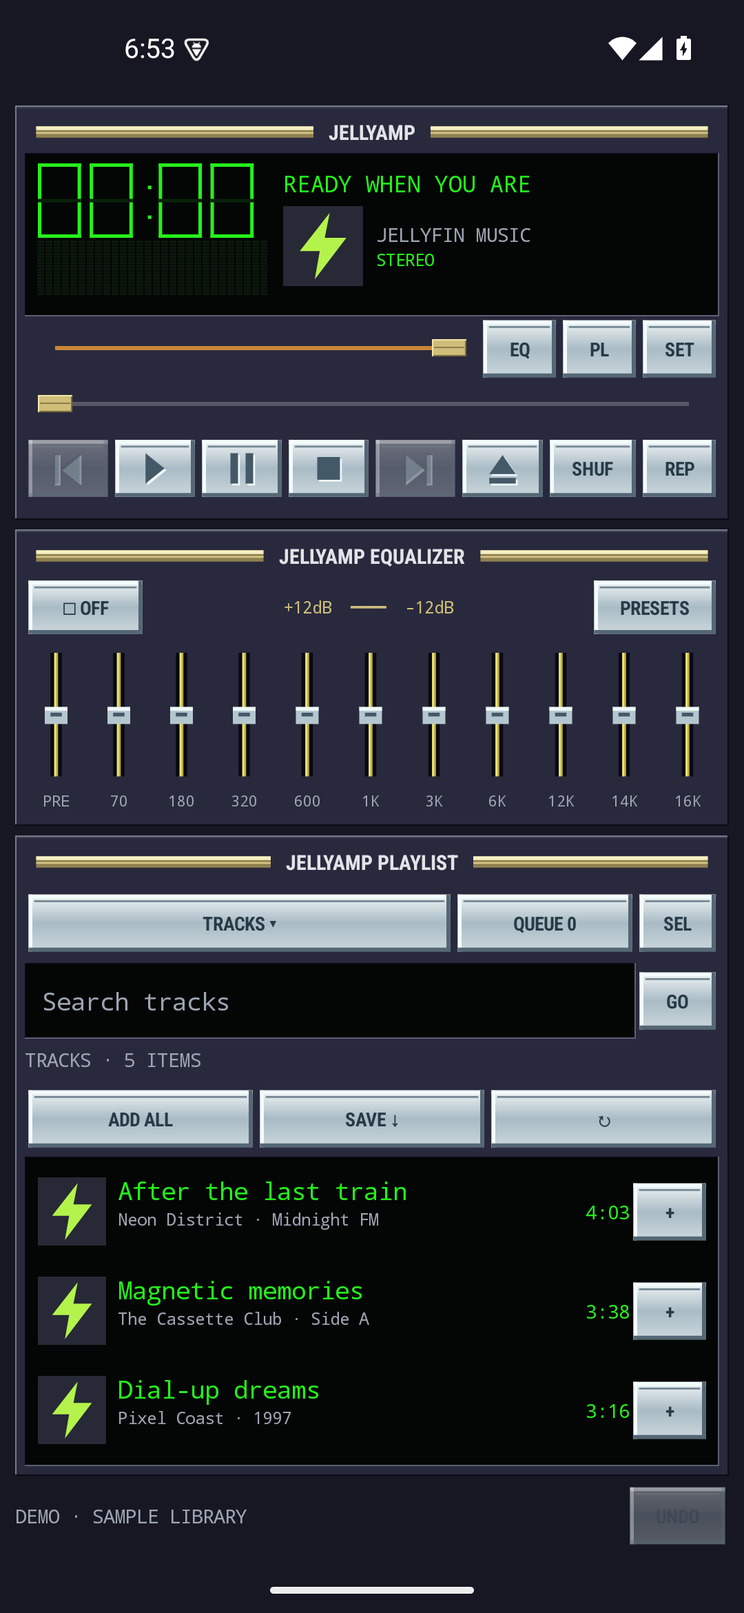
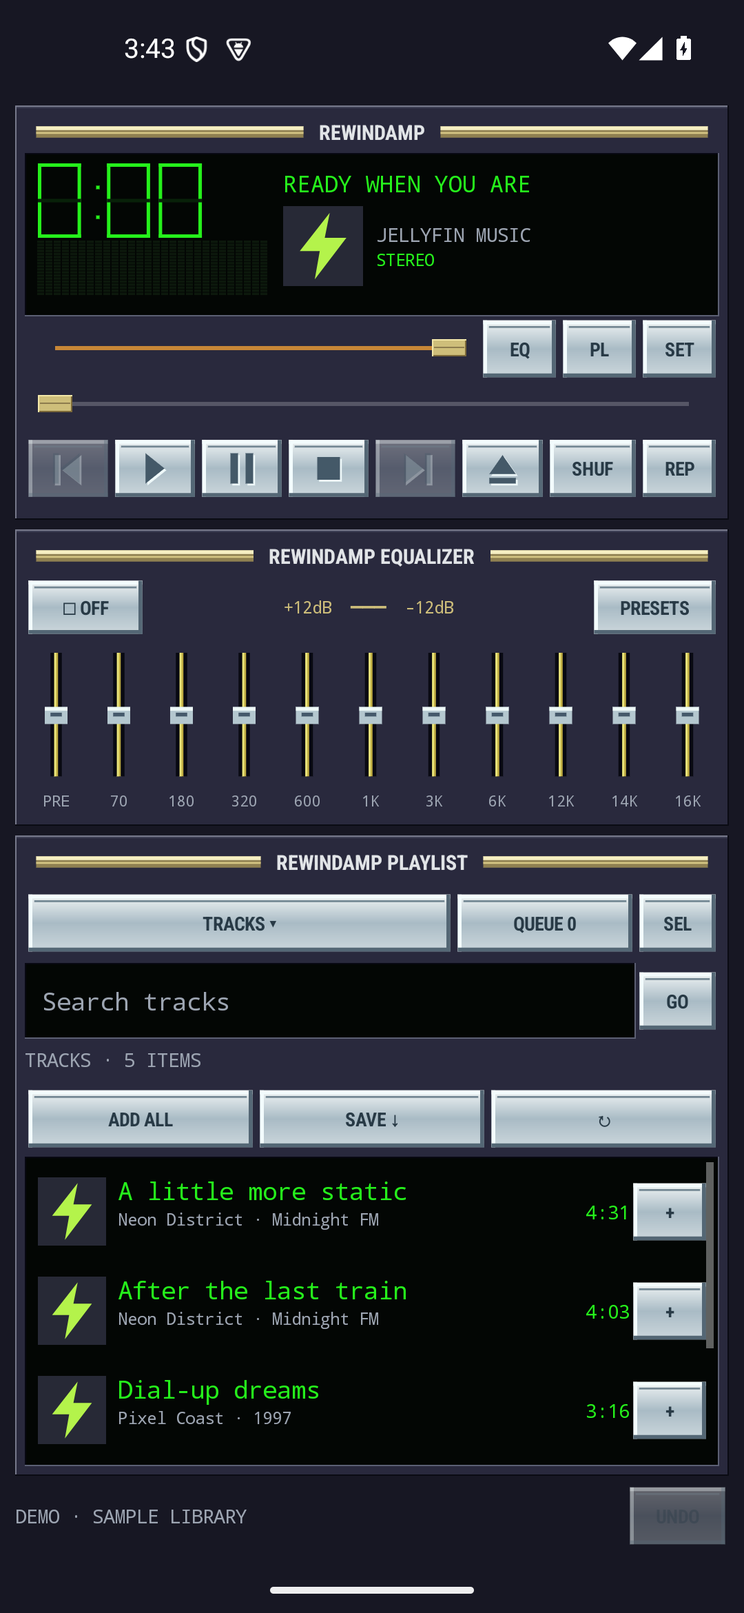
Rename Jellyamp to Rewindamp with a clean Android identity

diff --git a/app/src/main/java/dev/rewindamp/MainActivity.java b/app/src/main/java/dev/rewindamp/MainActivity.java
@@ -1,4 +1,4 @@
-package dev.jellyamp;
+package dev.rewindamp;
 
 import android.app.Activity;
 import android.app.AlertDialog;
@@ -115,8 +115,8 @@ public final class MainActivity extends Activity {
     }
     EditText field(String hint,boolean password){EditText e=new EditText(this);e.setTextColor(Retro.GREEN);e.setHintTextColor(Retro.MUTED);e.setTextSize(13);e.setSingleLine(true);e.setTypeface(Retro.MONO);e.setPadding(dp(9),dp(5),dp(9),dp(5));e.setBackground(Retro.bevel(Retro.LCD,true));e.setHint(hint);e.setInputType(password?InputType.TYPE_CLASS_TEXT|InputType.TYPE_TEXT_VARIATION_PASSWORD:InputType.TYPE_CLASS_TEXT|InputType.TYPE_TEXT_FLAG_NO_SUGGESTIONS);if(password)e.setImportantForAutofill(View.IMPORTANT_FOR_AUTOFILL_NO);return e;}
     void loginScreen(){
-        searchScreen=false;previousBrowse=null;previousBrowseRows=null;browseHistory.clear();base();ScrollView scroll=new ScrollView(this);LinearLayout box=column();scroll.addView(box);root.addView(scroll);rail(box,"JELLYAMP / CONNECT");gap(box,24);
-        box.addView(text("JELLYAMP",34,Retro.GREEN));box.addView(text("YOUR MUSIC. OLD SCHOOL.",12,Retro.MUTED));gap(box,24);
+        searchScreen=false;previousBrowse=null;previousBrowseRows=null;browseHistory.clear();base();ScrollView scroll=new ScrollView(this);LinearLayout box=column();scroll.addView(box);root.addView(scroll);rail(box,"REWINDAMP / CONNECT");gap(box,24);
+        box.addView(text("REWINDAMP",34,Retro.GREEN));box.addView(text("YOUR MUSIC. OLD SCHOOL.",12,Retro.MUTED));gap(box,24);
         LinearLayout form=column();panel(form);form.setPadding(dp(16),dp(12),dp(16),dp(12));box.addView(form);rail(form,"JELLYFIN SERVER");gap(form,12);
         EditText server=field("https://jellyfin.example.com",false);server.setInputType(InputType.TYPE_CLASS_TEXT|InputType.TYPE_TEXT_VARIATION_URI);form.addView(server,new LinearLayout.LayoutParams(-1,dp(52)));gap(form,12);
         EditText user=field("Username",false);form.addView(user,new LinearLayout.LayoutParams(-1,dp(52)));gap(form,12);EditText pass=field("Password",true);form.addView(pass,new LinearLayout.LayoutParams(-1,dp(52)));gap(form,14);
@@ -133,11 +133,11 @@ public final class MainActivity extends Activity {
         boolean landscape=getResources().getConfiguration().orientation==android.content.res.Configuration.ORIENTATION_LANDSCAPE;
         LinearLayout deckHost=root,libraryHost=root;
         if(landscape){LinearLayout split=row();split.setGravity(Gravity.TOP);root.addView(split,new LinearLayout.LayoutParams(-1,-1));ScrollView left=new ScrollView(this);deckHost=column();left.addView(deckHost);split.addView(left,new LinearLayout.LayoutParams(0,-1,1));libraryHost=column();LinearLayout.LayoutParams right=new LinearLayout.LayoutParams(0,-1,1);right.leftMargin=dp(6);split.addView(libraryHost,right);}
-        LinearLayout deck=column();panel(deck);deckHost.addView(deck);rail(deck,"JELLYAMP");
+        LinearLayout deck=column();panel(deck);deckHost.addView(deck);rail(deck,"REWINDAMP");
         LinearLayout lcd=row();lcd.setPadding(dp(6),dp(4),dp(6),dp(4));lcd.setBackground(Retro.bevel(Retro.LCD,true));deck.addView(lcd,new LinearLayout.LayoutParams(-1,dp(86)));
         LinearLayout meters=column();clock=new Retro.Digits(this);clock.setFocusable(true);clock.setOnClickListener(v->{remainingTime=!remainingTime;getPreferences(0).edit().putBoolean("remainingTime",remainingTime).apply();updateClock();});meters.addView(clock,new LinearLayout.LayoutParams(-1,dp(42)));spectrum=new Retro.Spectrum(this);meters.addView(spectrum,new LinearLayout.LayoutParams(-1,dp(29)));lcd.addView(meters,new LinearLayout.LayoutParams(dp(122),-1));
         LinearLayout info=column();info.setPadding(dp(8),0,0,0);lcd.addView(info,new LinearLayout.LayoutParams(0,-1,1));title=text("READY WHEN YOU ARE",12,Retro.GREEN);title.setSingleLine(true);title.setEllipsize(TextUtils.TruncateAt.MARQUEE);title.setMarqueeRepeatLimit(-1);title.setSelected(true);info.addView(title,new LinearLayout.LayoutParams(-1,dp(24)));
-        LinearLayout details=row();cover=new ImageView(this);cover.setScaleType(ImageView.ScaleType.CENTER_CROP);cover.setImageResource(R.drawable.ic_jellyamp);cover.setContentDescription("Current album cover");details.addView(cover,new LinearLayout.LayoutParams(dp(42),dp(42)));
+        LinearLayout details=row();cover=new ImageView(this);cover.setScaleType(ImageView.ScaleType.CENTER_CROP);cover.setImageResource(R.drawable.ic_rewindamp);cover.setContentDescription("Current album cover");details.addView(cover,new LinearLayout.LayoutParams(dp(42),dp(42)));
         LinearLayout labels=column();labels.setPadding(dp(7),0,0,0);artist=text("JELLYFIN MUSIC",10,Retro.MUTED);artist.setSingleLine(true);artist.setEllipsize(TextUtils.TruncateAt.END);labels.addView(artist);audioInfo=text("STEREO",9,Retro.GREEN);labels.addView(audioInfo);details.addView(labels,new LinearLayout.LayoutParams(0,-2,1));info.addView(details);
         LinearLayout switches=row();volume=new SeekBar(this);volume.setMax(100);volume.setProgress(100);volume.setContentDescription("Playback volume");volume.setThumb(Retro.thumb(this));volume.setProgressTintList(ColorStateList.valueOf(0xFFC88737));switches.addView(volume,new LinearLayout.LayoutParams(0,dp(30),1));
         volume.setOnSeekBarChangeListener(new SeekBar.OnSeekBarChangeListener(){public void onProgressChanged(SeekBar s,int progress,boolean user){if(user&&player!=null)player.setVolume(progress/100f);}public void onStartTrackingTouch(SeekBar s){}public void onStopTrackingTouch(SeekBar s){}});
@@ -150,8 +150,8 @@ public final class MainActivity extends Activity {
         weighted(controls,transport("stop",()->{if(player!=null){player.pause();player.seekTo(0);}}),44);next=transport("next",()->{if(player!=null&&player.hasNextMediaItem())player.seekToNextMediaItem();});weighted(controls,next,44);
         weighted(controls,transport("eject",this::chooseSection),44);shuffle=button("SHUF",()->{if(player!=null)player.setShuffleModeEnabled(!player.getShuffleModeEnabled());});controls.addView(shuffle,new LinearLayout.LayoutParams(dp(49),dp(44)));
         repeat=button("REP",()->{if(player!=null)player.setRepeatMode((player.getRepeatMode()+1)%3);});controls.addView(repeat,new LinearLayout.LayoutParams(dp(42),dp(44)));deck.addView(controls);gap(deckHost,5);
-        equalizer=column();panel(equalizer);deckHost.addView(equalizer);rail(equalizer,"JELLYAMP EQUALIZER");buildEqualizer();equalizer.setVisibility(eqExpanded?View.VISIBLE:View.GONE);gap(deckHost,5);
-        LinearLayout browser=column();panel(browser);libraryHost.addView(browser,new LinearLayout.LayoutParams(-1,0,1));rail(browser,"JELLYAMP PLAYLIST");
+        equalizer=column();panel(equalizer);deckHost.addView(equalizer);rail(equalizer,"REWINDAMP EQUALIZER");buildEqualizer();equalizer.setVisibility(eqExpanded?View.VISIBLE:View.GONE);gap(deckHost,5);
+        LinearLayout browser=column();panel(browser);libraryHost.addView(browser,new LinearLayout.LayoutParams(-1,0,1));rail(browser,"REWINDAMP PLAYLIST");
         LinearLayout navigation=row();sectionButton=button(section.toUpperCase(Locale.ROOT)+" ▾",this::chooseSection);navigation.addView(sectionButton,new LinearLayout.LayoutParams(0,dp(42),1));
         queueButton=button("QUEUE",()->navigate("Queue"));navigation.addView(queueButton,new LinearLayout.LayoutParams(dp(96),dp(42)));navigation.addView(button("SEL",()->{selecting=!selecting;selected.clear();render(morePages);}),new LinearLayout.LayoutParams(dp(44),dp(42)));browser.addView(navigation);
         LinearLayout find=row();search=field("Search music",false);search.setText(query);find.addView(search,new LinearLayout.LayoutParams(0,dp(40),1));find.addView(button("GO",this::searchNow),new LinearLayout.LayoutParams(dp(44),dp(40)));search.setFocusable(false);search.setCursorVisible(false);search.setOnClickListener(v->openSearch(""));browser.addView(find);
@@ -201,7 +201,7 @@ public final class MainActivity extends Activity {
         mainScreen();if(previous!=null)restorePage(new BrowsePage(previous,rows,previousBrowseMore));else load(false);
     }
     void searchLayout(boolean keyboard){
-        base();rail(root,"JELLYAMP SEARCH");LinearLayout navigation=row();weighted(navigation,button("‹ BACK",this::closeSearch),44);queueButton=button("QUEUE",()->navigate("Queue"));weighted(navigation,queueButton,44);root.addView(navigation);
+        base();rail(root,"REWINDAMP SEARCH");LinearLayout navigation=row();weighted(navigation,button("‹ BACK",this::closeSearch),44);queueButton=button("QUEUE",()->navigate("Queue"));weighted(navigation,queueButton,44);root.addView(navigation);
         LinearLayout find=row();search=field("Track title or artist",false);search.setText(query);find.addView(search,new LinearLayout.LayoutParams(0,dp(48),1));find.addView(button("DONE",this::hideKeyboard),new LinearLayout.LayoutParams(dp(54),dp(48)));root.addView(find);
         search.setImeOptions(android.view.inputmethod.EditorInfo.IME_ACTION_SEARCH);search.setOnEditorActionListener((v,a,event)->{searchNow();hideKeyboard();return true;});
         count=text("TYPE TO SEARCH · TAP RESULTS TO QUEUE",11,Retro.MUTED);root.addView(count,new LinearLayout.LayoutParams(-1,dp(32)));tools=row();root.addView(tools,new LinearLayout.LayoutParams(-1,dp(40)));sectionButton=null;
@@ -219,7 +219,7 @@ public final class MainActivity extends Activity {
                 MediaItem current=player.getCurrentMediaItem();if(current!=null&&offline!=null&&offline.complete(current.mediaId)&&current.mediaMetadata.extras!=null&&!current.mediaMetadata.extras.getBoolean("offline"))say("Switching to downloaded copy…");else say("Playback failed. Try a downloaded track or check the connection.");
             }
         });if(!pendingQueue.isEmpty()){List<Track> pending=new ArrayList<>(pendingQueue);pendingQueue.clear();enqueue(pending);}updatePlayer();if(section.equals("Queue"))load(false);
-        }catch(Exception ignored){say("Could not connect to the audio service. Reopen Jellyamp.");}},command->handler.post(command));
+        }catch(Exception ignored){say("Could not connect to the audio service. Reopen Rewindamp.");}},command->handler.post(command));
     }
     void resume(){if(demo){say("Demo preview — connect to play your music");return;}if(player==null)return;if(player.getMediaItemCount()==0){say("Tap a track to start building your queue");return;}if(player.getPlaybackState()==Player.STATE_ENDED)player.seekTo(0);if(player.getPlaybackState()==Player.STATE_IDLE)player.prepare();player.play();}
     void updateClock(){
@@ -343,7 +343,7 @@ public final class MainActivity extends Activity {
             Button action=button("+",()->trackMenu(track,index));item.addView(action,new LinearLayout.LayoutParams(dp(42),dp(48)));
             if(queue()||playlist()){
                 TextView drag=text("≡",18,Retro.MUTED);drag.setGravity(Gravity.CENTER);drag.setContentDescription("Drag to reorder "+track.name);item.addView(drag,new LinearLayout.LayoutParams(dp(30),dp(48)));
-                drag.setOnLongClickListener(v->{v.startDragAndDrop(ClipData.newPlainText("jellyamp-row",String.valueOf(index)),new View.DragShadowBuilder(item),new DragToken(generation,index),0);return true;});
+                drag.setOnLongClickListener(v->{v.startDragAndDrop(ClipData.newPlainText("rewindamp-row",String.valueOf(index)),new View.DragShadowBuilder(item),new DragToken(generation,index),0);return true;});
                 item.setOnDragListener((v,event)->{if(!(event.getLocalState() instanceof DragToken token)||token.generation!=generation)return false;if(event.getAction()==DragEvent.ACTION_DROP){move(token.index,index);return true;}return true;});
             }
         }else item.addView(button("›",()->open(track)),new LinearLayout.LayoutParams(dp(42),dp(48)));
@@ -411,15 +411,15 @@ public final class MainActivity extends Activity {
         dialog.setOnShowListener(d->dialog.getButton(AlertDialog.BUTTON_POSITIVE).setOnClickListener(v->{String name=input.getText().toString().trim();if(name.isBlank()){input.setError("Enter a name");return;}dialog.dismiss();action.accept(name);}));dialog.show();
     }
     void settings(){
-        String[] choices=demo?new String[]{"Connect to Jellyfin","About Jellyamp"}:new String[]{"Playback transitions","Downloads","Pause downloads","Resume downloads","Sync favourites and play history","Sign out","About Jellyamp"};
-        new AlertDialog.Builder(this).setTitle("Jellyamp 0.3.6").setItems(choices,(d,i)->{
+        String[] choices=demo?new String[]{"Connect to Jellyfin","About Rewindamp"}:new String[]{"Playback transitions","Downloads","Pause downloads","Resume downloads","Sync favourites and play history","Sign out","About Rewindamp"};
+        new AlertDialog.Builder(this).setTitle("Rewindamp 0.3.6").setItems(choices,(d,i)->{
             if(demo){if(i==0){demo=false;loginScreen();}else about();return;}
             switch(i){case 0->TransitionSettings.show(this);case 1->navigate("Offline");case 2->{offline.paused(true);say("Downloads paused");}case 3->{offline.paused(false);say("Downloads resumed");}
                 case 4->{say("Syncing…");io.execute(()->{new PlaybackReporter(api,store).sync();handler.post(()->say("Sync attempted · pending changes retry automatically"));});}
                 case 5->new AlertDialog.Builder(this).setTitle("Sign out?").setMessage("Playback and downloads stop. Saved queues and downloads stay private to this account on the phone.").setNegativeButton("Cancel",null).setPositiveButton("Sign out",(dd,w)->signOut()).show();default->about();}
         }).setNegativeButton("Close",null).show();
     }
-    void about(){new AlertDialog.Builder(this).setTitle("Jellyamp 0.3.6").setMessage("Classic controls. Your Jellyfin music.\n\nTap tracks to append. Clear only in Queue.\nHold ≡ to drag playlist or queue entries. Long-press a track to select several.\n\n10-band EQ with automatic headroom. The spectrum follows decoded audio; no microphone permission.\n\nAndroid Auto requires sign-in on your phone. For a sideloaded build, enable unknown sources in Android Auto developer settings.\n\nIndependent app; not affiliated with Winamp or Jellyfin.").setPositiveButton("Close",null).show();}
+    void about(){new AlertDialog.Builder(this).setTitle("Rewindamp 0.3.6").setMessage("Classic controls. Your Jellyfin music.\n\nTap tracks to append. Clear only in Queue.\nHold ≡ to drag playlist or queue entries. Long-press a track to select several.\n\n10-band EQ with automatic headroom. The spectrum follows decoded audio; no microphone permission.\n\nAndroid Auto requires sign-in on your phone. For a sideloaded build, enable unknown sources in Android Auto developer settings.\n\nIndependent app; not affiliated with Winamp or Jellyfin.").setPositiveButton("Close",null).show();}
     void signOut(){
         generation++;busy=false;JellyfinApi previous=api;if(player!=null)player.pause();if(controllerFuture!=null){MediaController.releaseFuture(controllerFuture);controllerFuture=null;}player=null;
         stopService(new Intent(this,PlaybackService.class));OfflineLibrary.pause(this);new androidx.media3.exoplayer.scheduler.PlatformScheduler(this,42).cancel();SessionStore.clear(this);browseHistory.clear();previousBrowseRows=null;previousBrowse=null;api=null;offline=null;store=null;undo=null;pendingQueue.clear();shown.clear();parent=null;section="Tracks";query="";loginScreen();

diff --git a/app/src/androidTest/java/dev/rewindamp/AdvancedIntegrationTest.java b/app/src/androidTest/java/dev/rewindamp/AdvancedIntegrationTest.java
@@ -1,4 +1,4 @@
-package dev.jellyamp;
+package dev.rewindamp;
 
 import android.app.Activity;
 import android.content.Context;
@@ -36,7 +36,7 @@ public class AdvancedIntegrationTest {
     void main(Runnable action){instrumentation.runOnMainSync(action);}
     <T> T read(java.util.concurrent.Callable<T> action){AtomicReference<T> result=new AtomicReference<>();main(()->{try{result.set(action.call());}catch(Exception e){throw new RuntimeException(e);}});return result.get();}
     void await(BooleanSupplier condition,int seconds)throws Exception{long end=System.currentTimeMillis()+seconds*1000L;while(System.currentTimeMillis()<end){if(condition.getAsBoolean())return;Thread.sleep(100);}assertTrue("Timed out waiting for the expected state",condition.getAsBoolean());}
-    JellyfinApi login()throws Exception{return JellyfinApi.login("http://10.0.2.2:18096","jellyamp-test","test-only-local-password");}
+    JellyfinApi login()throws Exception{return JellyfinApi.login("http://10.0.2.2:18096","rewindamp-test","test-only-local-password");}
     final class Fixture implements AutoCloseable {
         final JellyfinApi api;
         Activity activity;
@@ -241,7 +241,7 @@ public class AdvancedIntegrationTest {
             main(()->((android.view.View)lastText(content,"Test Signal One").getParent()).performClick());main(()->((android.view.View)lastText(content,"Test Signal Two").getParent()).performClick());
             await(()->read(()->f.controller.getMediaItemCount()==2),5);assertTrue(read(()->input.hasFocus()&&content.getRootWindowInsets().isVisible(android.view.WindowInsets.Type.ime())));
             main(()->input.setText("Two"));await(()->read(()->lastText(content,"Test Signal Two")!=null&&lastText(content,"Test Signal One")==null),10);
-            main(()->input.setText("jElLyAmP tEsT"));await(()->read(()->lastText(content,"Test Signal One")!=null&&lastText(content,"Test Signal Two")!=null),10);
+            main(()->input.setText("rEwInDaMp tEsT"));await(()->read(()->lastText(content,"Test Signal One")!=null&&lastText(content,"Test Signal Two")!=null),10);
             assertEquals("Artist-name search should find tracks whose titles do not include the artist",2,(int)read(()->findList(content).getCount()));
             main(()->lastText(content,"‹ BACK").performClick());await(()->read(()->lastText(content,"‹ BACK")==null),5);assertEquals(2,(int)read(()->f.controller.getMediaItemCount()));
         }

diff --git a/app/src/main/java/dev/rewindamp/CarLibrary.java b/app/src/main/java/dev/rewindamp/CarLibrary.java
@@ -1,4 +1,4 @@
-package dev.jellyamp;
+package dev.rewindamp;
 
 import android.os.Bundle;
 import androidx.media3.common.MediaItem;
@@ -36,7 +36,7 @@ final class CarLibrary implements MediaLibrarySession.Callback {
     }
     @Override public int onPlayerCommandRequest(MediaSession session,MediaSession.ControllerInfo controller,int command){commandListener.accept(command);return androidx.media3.session.SessionResult.RESULT_SUCCESS;}
     @Override public ListenableFuture<LibraryResult<MediaItem>> onGetLibraryRoot(MediaLibrarySession session,MediaSession.ControllerInfo controller,LibraryParams params){
-        return Futures.immediateFuture(LibraryResult.ofItem(folder("root","Jellyamp"),params));
+        return Futures.immediateFuture(LibraryResult.ofItem(folder("root","Rewindamp"),params));
     }
     List<MediaItem> children(String id,int page,int pageSize)throws Exception{
         if(api==null||offline==null)return List.of(folder("signin","Sign in on your phone"));
@@ -56,7 +56,7 @@ final class CarLibrary implements MediaLibrarySession.Callback {
         return io.submit(()->{try{return LibraryResult.ofItemList(children(id,page,size),params);}catch(Exception e){return LibraryResult.ofError(androidx.media3.session.SessionError.ERROR_IO);}});
     }
     @Override public ListenableFuture<LibraryResult<MediaItem>> onGetItem(MediaLibrarySession s,MediaSession.ControllerInfo c,String id){
-        return io.submit(()->{try{if(id.equals("root"))return LibraryResult.ofItem(folder("root","Jellyamp"),null);return LibraryResult.ofItem(resolve(id),null);}catch(Exception e){return LibraryResult.ofError(androidx.media3.session.SessionError.ERROR_BAD_VALUE);}});
+        return io.submit(()->{try{if(id.equals("root"))return LibraryResult.ofItem(folder("root","Rewindamp"),null);return LibraryResult.ofItem(resolve(id),null);}catch(Exception e){return LibraryResult.ofError(androidx.media3.session.SessionError.ERROR_BAD_VALUE);}});
     }
     private MediaItem resolve(String id)throws Exception{
         if(offline==null)throw new IllegalStateException();

diff --git a/app/src/main/java/dev/rewindamp/MusicDownloadService.java b/app/src/main/java/dev/rewindamp/MusicDownloadService.java
@@ -1,4 +1,4 @@
-package dev.jellyamp;
+package dev.rewindamp;
 
 import android.app.Notification;
 import androidx.media3.exoplayer.offline.Download;
@@ -11,7 +11,7 @@ import java.util.List;
 
 @androidx.annotation.OptIn(markerClass=androidx.media3.common.util.UnstableApi.class)
 public final class MusicDownloadService extends DownloadService {
-    public MusicDownloadService(){super(20,1000,"jellyamp-downloads",R.string.download_channel,0);}
+    public MusicDownloadService(){super(20,1000,"rewindamp-downloads",R.string.download_channel,0);}
     @Override protected DownloadManager getDownloadManager(){
         JellyfinApi api=SessionStore.load(this);if(api==null){
             // A delayed scheduler restart after sign-out must not access the previous account.
@@ -22,7 +22,7 @@ public final class MusicDownloadService extends DownloadService {
     @Override protected Scheduler getScheduler(){return new PlatformScheduler(this,42);}
     @Override protected Notification getForegroundNotification(List<Download> downloads,int unmet){
         var intent=android.app.PendingIntent.getActivity(this,1,new android.content.Intent(this,MainActivity.class),android.app.PendingIntent.FLAG_IMMUTABLE);
-        return new DownloadNotificationHelper(this,"jellyamp-downloads").buildProgressNotification(this,R.drawable.ic_jellyamp,intent,"Saving your music for offline listening",downloads,unmet);
+        return new DownloadNotificationHelper(this,"rewindamp-downloads").buildProgressNotification(this,R.drawable.ic_rewindamp,intent,"Saving your music for offline listening",downloads,unmet);
     }
     @Override public void onTimeout(int startId,int type){pauseAll();stopSelf();}
     private void pauseAll(){getDownloadManager().pauseDownloads();}

diff --git a/scripts/bootstrap-test-server.py b/scripts/bootstrap-test-server.py
@@ -5,7 +5,7 @@ import time
 import urllib.request
 
 BASE = "http://127.0.0.1:18096"
-HEADERS = {"Content-Type": "application/json", "Authorization": 'MediaBrowser Client="Jellyamp Test", Device="Local", DeviceId="test", Version="1"'}
+HEADERS = {"Content-Type": "application/json", "Authorization": 'MediaBrowser Client="Rewindamp Test", Device="Local", DeviceId="test", Version="1"'}
 
 
 def request(path, body=None):
@@ -30,10 +30,10 @@ if info.get("StartupWizardCompleted"):
     raise RuntimeError("Expected a fresh disposable server; refusing to reuse an existing server")
 request("/Startup/Configuration", {"UICulture": "en-US", "MetadataCountryCode": "AU", "PreferredMetadataLanguage": "en"})
 request("/Startup/User")
-request("/Startup/User", {"Name": "jellyamp-test", "Password": "test-only-local-password"})
+request("/Startup/User", {"Name": "rewindamp-test", "Password": "test-only-local-password"})
 request("/Startup/RemoteAccess", {"EnableRemoteAccess": True, "EnableAutomaticPortMapping": False})
 request("/Startup/Complete", {})
-auth = request("/Users/AuthenticateByName", {"Username": "jellyamp-test", "Pw": "test-only-local-password"})
+auth = request("/Users/AuthenticateByName", {"Username": "rewindamp-test", "Pw": "test-only-local-password"})
 HEADERS["Authorization"] += ', Token="' + auth["AccessToken"] + '"'
 request("/Library/VirtualFolders?name=Test%20Music&collectionType=music&refreshLibrary=true",
         {"LibraryOptions": {"PathInfos": [{"Path": "/music"}], "EnableInternetProviders": False}})

diff --git a/app/src/main/java/dev/rewindamp/SessionStore.java b/app/src/main/java/dev/rewindamp/SessionStore.java
@@ -1,4 +1,4 @@
-package dev.jellyamp;
+package dev.rewindamp;
 
 import android.content.Context;
 import android.security.keystore.KeyGenParameterSpec;
@@ -15,13 +15,13 @@ import javax.crypto.spec.GCMParameterSpec;
 final class SessionStore {
     private static SecretKey key() throws Exception {
         KeyStore store = KeyStore.getInstance("AndroidKeyStore"); store.load(null);
-        if (!store.containsAlias("jellyamp-session")) {
+        if (!store.containsAlias("rewindamp-session")) {
             KeyGenerator generator = KeyGenerator.getInstance("AES", "AndroidKeyStore");
-            generator.init(new KeyGenParameterSpec.Builder("jellyamp-session", KeyProperties.PURPOSE_ENCRYPT | KeyProperties.PURPOSE_DECRYPT)
+            generator.init(new KeyGenParameterSpec.Builder("rewindamp-session", KeyProperties.PURPOSE_ENCRYPT | KeyProperties.PURPOSE_DECRYPT)
                 .setBlockModes(KeyProperties.BLOCK_MODE_GCM).setEncryptionPaddings(KeyProperties.ENCRYPTION_PADDING_NONE).build());
             generator.generateKey();
         }
-        return (SecretKey) store.getKey("jellyamp-session", null);
+        return (SecretKey) store.getKey("rewindamp-session", null);
     }
     static void save(Context context, JellyfinApi api) throws Exception {
         Cipher cipher = Cipher.getInstance("AES/GCM/NoPadding"); cipher.init(Cipher.ENCRYPT_MODE, key());

diff --git a/app/src/main/java/dev/rewindamp/ArtworkLoader.java b/app/src/main/java/dev/rewindamp/ArtworkLoader.java
@@ -1,4 +1,4 @@
-package dev.jellyamp;
+package dev.rewindamp;
 
 import android.graphics.Bitmap;
 import android.graphics.BitmapFactory;
@@ -13,7 +13,7 @@ final class ArtworkLoader {
     private final Handler main=new Handler(Looper.getMainLooper());
     private final android.util.LruCache<String,Bitmap> memory=new android.util.LruCache<>(40);
     void show(ImageView view,Track track,JellyfinApi api,LibraryStore store){
-        String key=track.imageId+":"+track.imageTag;view.setTag(key);view.setImageResource(R.drawable.ic_jellyamp);
+        String key=track.imageId+":"+track.imageTag;view.setTag(key);view.setImageResource(R.drawable.ic_rewindamp);
         if(api==null||store==null||track.imageId.isBlank())return;
         Bitmap bitmap=memory.get(key);if(bitmap!=null){view.setImageBitmap(bitmap);return;}
         io.execute(()->{try{byte[] data=store.artwork(track);if(data.length==0){data=api.image(track);store.artwork(track,data);}Bitmap result=BitmapFactory.decodeByteArray(data,0,data.length);if(result!=null){memory.put(key,result);main.post(()->{if(key.equals(view.getTag()))view.setImageBitmap(result);});}}catch(Exception ignored){}});

diff --git a/app/src/main/java/dev/rewindamp/OfflineLibrary.java b/app/src/main/java/dev/rewindamp/OfflineLibrary.java
@@ -1,4 +1,4 @@
-package dev.jellyamp;
+package dev.rewindamp;
 
 import android.content.Context;
 import android.net.Uri;
@@ -52,7 +52,7 @@ final class OfflineLibrary {
         if(!store.read("download-settings").optBoolean("paused"))manager.resumeDownloads();
     }
     DataSource.Factory http(){
-        return ()->new DefaultHttpDataSource.Factory().setUserAgent("Jellyamp/0.2.0").setDefaultRequestProperties(Map.of("Authorization",apiToken)).createDataSource();
+        return ()->new DefaultHttpDataSource.Factory().setUserAgent("Rewindamp/0.2.0").setDefaultRequestProperties(Map.of("Authorization",apiToken)).createDataSource();
     }
     DataSource.Factory playbackSource(){return new CacheDataSource.Factory().setCache(cache).setCacheWriteDataSinkFactory(null)
         .setUpstreamDataSourceFactory(new DefaultDataSource.Factory(context,http())).setFlags(CacheDataSource.FLAG_IGNORE_CACHE_ON_ERROR);}

diff --git a/app/src/main/java/dev/rewindamp/JellyfinApi.java b/app/src/main/java/dev/rewindamp/JellyfinApi.java
@@ -1,4 +1,4 @@
-package dev.jellyamp;
+package dev.rewindamp;
 
 import android.net.Uri;
 import org.json.JSONArray;
@@ -32,7 +32,7 @@ final class JellyfinApi {
         return new JellyfinApi(anonymous.server, result.getString("AccessToken"), result.getJSONObject("User").getString("Id"), anonymous.deviceId);
     }
     String authorization() {
-        return "MediaBrowser Client=\"Jellyamp\", Device=\"Android\", DeviceId=\"" + deviceId + "\", Version=\"0.3.6\"" + (token.isEmpty() ? "" : ", Token=\"" + token + "\"");
+        return "MediaBrowser Client=\"Rewindamp\", Device=\"Android\", DeviceId=\"" + deviceId + "\", Version=\"0.3.6\"" + (token.isEmpty() ? "" : ", Token=\"" + token + "\"");
     }
     JSONObject request(String method, String path, JSONObject body) throws Exception {
         HttpURLConnection connection = (HttpURLConnection) new URL(server + path).openConnection();

diff --git a/app/src/androidTest/java/dev/rewindamp/JellyfinIntegrationTest.java b/app/src/androidTest/java/dev/rewindamp/JellyfinIntegrationTest.java
@@ -1,4 +1,4 @@
-package dev.jellyamp;
+package dev.rewindamp;
 
 import android.content.ComponentName;
 import android.content.Context;
@@ -19,7 +19,7 @@ import static org.junit.Assert.*;
 /** Requires an isolated Jellyfin on host port 18096 with only synthetic test audio. */
 @RunWith(AndroidJUnit4.class)
 public class JellyfinIntegrationTest {
-    JellyfinApi login() throws Exception {return JellyfinApi.login("http://10.0.2.2:18096","jellyamp-test","test-only-local-password");}
+    JellyfinApi login() throws Exception {return JellyfinApi.login("http://10.0.2.2:18096","rewindamp-test","test-only-local-password");}
     @Test public void playlistCrudUsesEntryIdsAndPreservesVisibility() throws Exception {
         JellyfinApi api=login();List<Track> music=api.items("Audio","",null,0);assertEquals(2,music.size());
         String name="Integration "+System.nanoTime();String id=null;

diff --git a/app/src/main/java/dev/rewindamp/AudioDsp.java b/app/src/main/java/dev/rewindamp/AudioDsp.java
@@ -1,4 +1,4 @@
-package dev.jellyamp;
+package dev.rewindamp;
 
 import androidx.media3.common.C;
 import androidx.media3.common.audio.BaseAudioProcessor;

diff --git a/app/src/main/java/dev/rewindamp/QueueStore.java b/app/src/main/java/dev/rewindamp/QueueStore.java
@@ -1,4 +1,4 @@
-package dev.jellyamp;
+package dev.rewindamp;
 
 import androidx.media3.common.Player;
 import androidx.media3.common.MediaItem;
